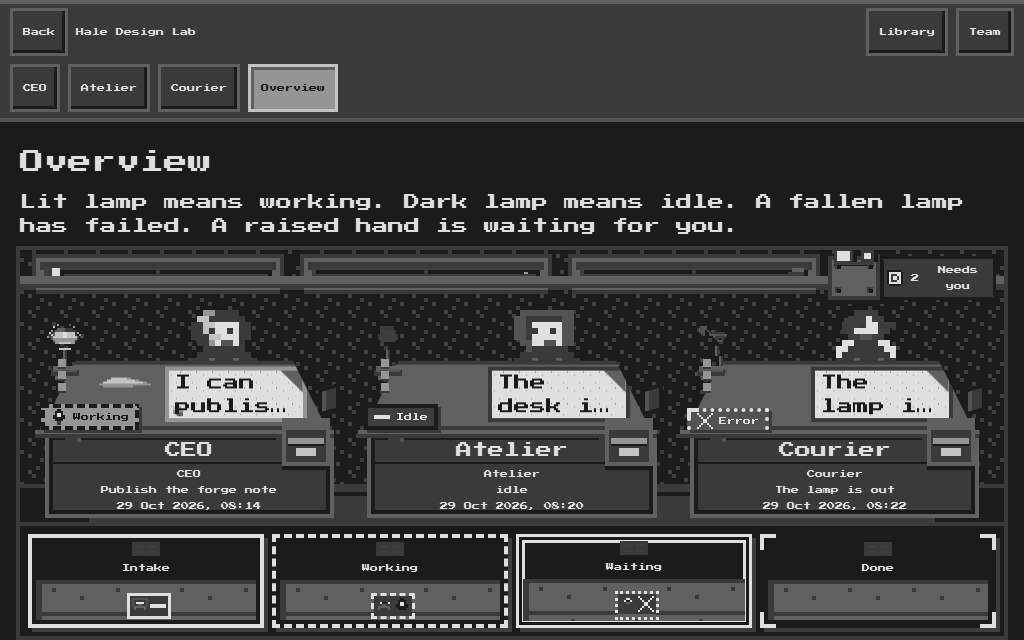
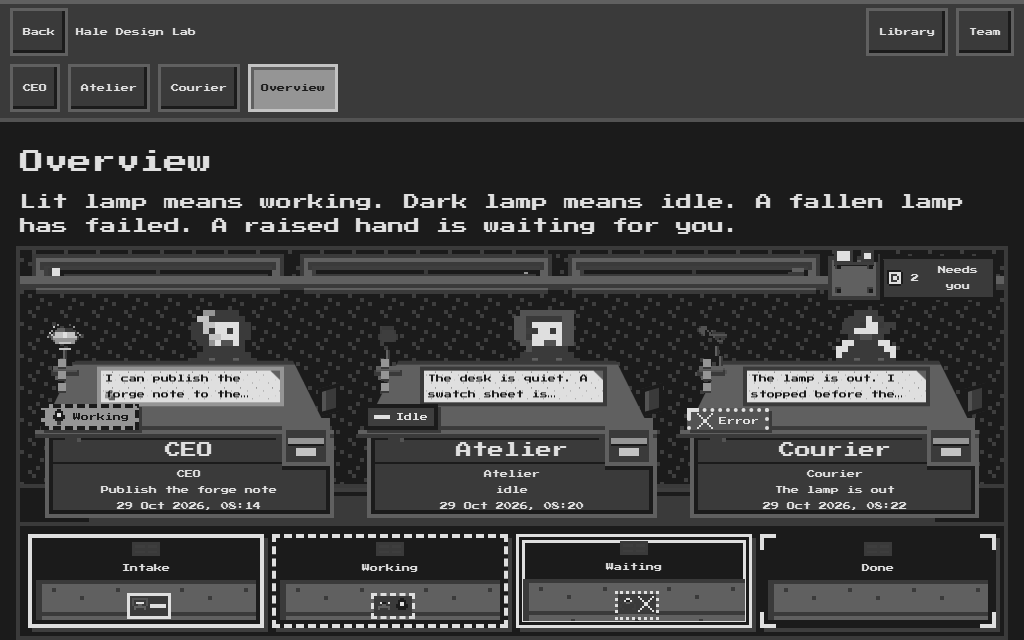
Show four to six words on the short-hall overview sheet.
At 1024×640 the paper was about 122px wide in body type, so the first line stopped at "I can" or "The". The short hall now uses the meta pixel face and a wider sheet that still clears the lamp, the clip, and the bust.

Changed region(s): [[0.7188, 0.5625, 0.9375, 0.6562], [0.4062, 0.5625, 0.625, 0.6562], [0.0938, 0.5625, 0.3125, 0.6562]]

diff --git a/client/e2e/overview-real-desks.spec.ts b/client/e2e/overview-real-desks.spec.ts
@@ -538,6 +538,53 @@ async function assertFitted(page: Page) {
   await assertTextVisible(page);
 }
 
+/**
+ * First painted line on the overview sheet, ignoring the clamped tail.
+ * Pass 4 at 1024×640 / 3 tiles painted "I can" / "The" / "The"
+ * (the sheet reads "I can publis…", "The desk i…", "The lamp i…").
+ * N = 16 is the shortest 4-word fixture prefix ("The lamp is out.") and
+ * is past that failure: "I can publis" is 12, "I can" is 5, "The" is 3.
+ */
+const MIN_FIRST_LINE_CHARS = 16;
+const MIN_FIRST_LINE_WORDS = 4;
+
+async function assertFirstLinesReadable(page: Page) {
+  const lines = await page.locator(".agent-desk").evaluateAll((desks) =>
+    desks.map((desk) => {
+      const line = desk.querySelector(".overview-line");
+      const agent = desk.getAttribute("data-agent") ?? "desk";
+      const text = line?.textContent ?? "";
+      const node = line?.firstChild;
+      if (!line || !node || node.nodeType !== Node.TEXT_NODE) return { agent, raw: "", chars: 0, words: 0 };
+      const host = line.getBoundingClientRect();
+      const range = document.createRange();
+      let firstTop = Number.POSITIVE_INFINITY;
+      const chars: { ch: string; top: number }[] = [];
+      for (let index = 0; index < text.length; index += 1) {
+        range.setStart(node, index);
+        range.setEnd(node, index + 1);
+        const rect = range.getBoundingClientRect();
+        if (rect.width < 0.5 || rect.height < 0.5) continue;
+        const mid = rect.top + rect.height / 2;
+        if (mid < host.top - 1 || mid > host.bottom + 1) continue;
+        if (rect.top < firstTop) firstTop = rect.top;
+        chars.push({ ch: text[index] ?? "", top: rect.top });
+      }
+      const raw = chars
+        .filter((item) => Math.abs(item.top - firstTop) < 2)
+        .map((item) => item.ch)
+        .join("")
+        .trim();
+      return { agent, raw, chars: raw.length, words: raw.split(/\s+/).filter(Boolean).length };
+    }),
+  );
+  expect(lines.length).toBeGreaterThanOrEqual(3);
+  for (const line of lines) {
+    expect(line.chars, JSON.stringify(line)).toBeGreaterThanOrEqual(MIN_FIRST_LINE_CHARS);
+    expect(line.words, JSON.stringify(line)).toBeGreaterThanOrEqual(MIN_FIRST_LINE_WORDS);
+  }
+}
+
 async function applyTiles(page: Page, count: number) {
   const radio = page.getByRole("radio", { name: `${count} tiles` });
   if ((await radio.count()) > 0) {
@@ -600,6 +647,7 @@ test.describe("overview desks match the fitted desk", () => {
       for (const count of [2, 3, 4]) {
         await applyTiles(page, count);
         await assertFitted(page);
+        if (size.width === 1024 && size.height === 640 && count === 3) await assertFirstLinesReadable(page);
       }
       if (size.width !== 1024) continue;
       await applyTiles(page, 3);

diff --git a/client/src/index.css b/client/src/index.css
@@ -7692,24 +7692,34 @@ html[data-recede="dim"] .mail-caption {
   .overview-desk .desk-top .fitted-sheet[data-pose="desk"] {
     top: 2px;
     bottom: auto;
-    /* 40% clears the bust. On a narrow tile that still meets the status chip, so never start inside it. */
-    left: max(40%, 120px);
-    right: 6%;
+    /* The lamp is 48px. 52px keeps a gutter. 14% stays inside the back-edge clip.
+       The head sits above the top, so the sheet can use the wood beside the lamp.
+       Body type only fit "I can" / "The" here; the meta face is the next pixel step. */
+    left: max(18%, 52px);
+    right: 14%;
     width: auto;
     height: auto;
-    /* Border sits inside the max-height. Two line boxes need the 8px frame as well. */
-    max-height: calc(2 * var(--leading-body) + 8px);
+    /* Border sits inside the max-height. Two meta line boxes need the 8px frame as well. */
+    max-height: calc(2 * var(--leading-meta) + 8px);
   }
 
   .overview-desk .overview-line {
     -webkit-line-clamp: 2;
     line-clamp: 2;
-    max-height: calc(2 * var(--leading-body));
+    max-height: calc(2 * var(--leading-meta));
+    font-size: var(--type-meta);
+    line-height: var(--leading-meta);
   }
 
   .overview-desk .overview-paper {
-    max-height: calc(2 * var(--leading-body) + 8px);
-    padding: 0 6px;
+    max-height: calc(2 * var(--leading-meta) + 8px);
+    /* The fold is one pixel cell. Padding keeps the first line out from under it. */
+    padding: 0 10px 0 4px;
+  }
+
+  .overview-desk .overview-paper::before {
+    width: 10px;
+    height: 10px;
   }
 
   /* The apron used to hang off the rig and cut the plaque title. Keep it in the rig. */
